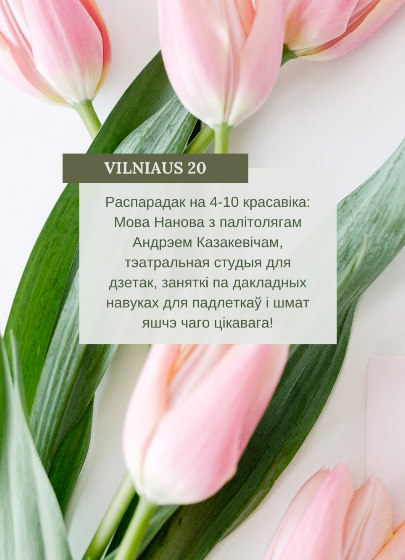
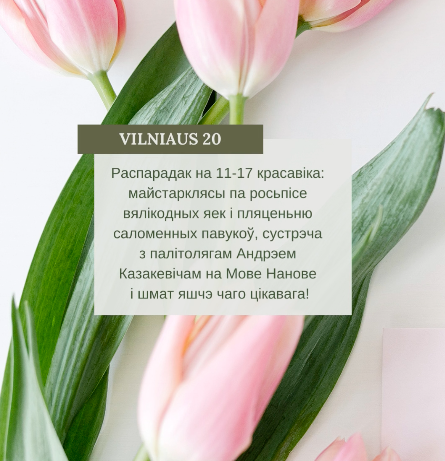
afi

diff --git a/content/be/Навіны/afisha0411.md b/content/be/Навіны/afisha0411.md
@@ -1,0 +1,92 @@
+
+---
+date: 2022-04-04T10:06:11+03:00
+description: ""
+featured_image: "https://vilnia.com/images/0411.png"
+tags: ["імпрэзы"]
+title: "Афіша на 11 - 17 красавіка"
+omit_header_text: true
+---
+{{< figure src="https://vilnia.com/images/0411.png" title="Запрашаем на імпрэзы гэтага тыдню! Майстарклясы па росьпісе вялікодных яек і пляценьню саломенных павукоў, сустрэча з палітолягам Андрэем Казакевічам на Мове Нанове і шмат яшчэ чаго цікавага!" >}}
+
+
+📌11-га красавіка, панядзелак:
+
+з 17:00 да 18:30 — літоўская мова (прафесійны курс, праз данаты).
+
+📌12-га красавіка, аўторак:
+
+з 07:00 да 08:00 —ангельская мова (он-лайн);
+
+з 18:00 да 20:00 — курс "Акадэмічны малюнак" (праз данаты);
+
+з 19:30 да 21:00 — літоўская мова (з валанцёрам);
+
+з 19:40 да 21:40 — групавая псіхалагічная кансультацыяі (RAZAM).
+
+📌13-га красавіка, серада:
+
+з 17:00 да 20:00 — літоўская мова (прафесійны курс, праз данаты));
+
+з 17:30 да 19:00 — курс "Акадэмічны малюнак" (праз данаты);
+
+з 19:15 да 21:15 — гурток традыцыйных беларускіх спеваў “Беларускі цуд”.
+
+📌14-га красавіка, чацьвер:
+
+з 07:00 да 08:00 — ангельская мова (он-лайн);
+
+з 18:00 да 20:00 — беларуская мова "Мова НАНОВА".
+
+з 18:30 да 20:00 — ёга (Vilniaus gatvė, 16);
+
+з 19:00 да 20:00 — Творчая студыя: тэатральна-харэаграфічныя заняткі для дзетак;
+
+з 19:30 да 21:00 — літоўская мова (з валанцёрам);
+
+📌15-га красавіка, пятніца:
+
+з 19:00 да 21:00 — Майстар-клас па росьпісе вялікодных яек
+
+з 19:00 да 21:00 — настольныя гульні.
+
+📌16-га красавіка, субота:
+
+з 10:00 да 12:00 — беларуская школка для дзетак;
+
+з 10:40 да 13:30 — Бацькоўская школка;
+
+з 10:40 да 11:40 — Творчая студыя: тэатральна-харэаграфічныя заняткі для дзетак (малодшая група);
+
+з 11:40 да 12:40 — Творчая студыя: тэатральна-харэаграфічныя заняткі для дзетак (старэйшая група);
+
+з 12:00 да 13:00 — Дакладныя навукі для падлеткаў: заняткі па хіміі, біялёгіі ды фізыцы;
+
+з 13:00 да 15:00 —  Майстар-клас па вырабе саламяннага павука
+
+з 12:00 да 13:30 — літоўская мова для дзетак (прафесійны курс, праз данаты));
+
+з 13:30 да 15:00 — літоўская мова (прафесійны курс, праз данаты));
+
+з 15:00 да 17:00 — гурток традыцыйных беларускіх спеваў “Беларускі цуд”;
+
+з 16:00 да 17:30 — цыгун/адзінаборствы (P. Lukšio, 16/ Kalvarijų gatvė, 125);
+
+з 17:00 да 19:00 — клуб традыцыйнага танца "Ойра" (Vilniaus, 16).
+
+📌17-га красавіка, нядзеля:
+
+з 10:00 да 12:00 — “Выдавецтва”: гурток для падлеткаў па графічнаму дызайну й выдавецкай справе;
+
+з 12:00 да 13:30 — інтэнсіў па мультыплікацыі 2D "Мульцікі" (1-я група);
+
+з 12:45 да 14:15 — ёга (P. Lukšio, 16/ Kalvarijų gatvė, 125);
+
+з 13:30 да 15:00 — інтэнсіў па мультыплікацыі 2D "Мульцікі" (2-я група).
+
+📍Панядзелак - пятніца 12:00 -19:00
+
+Інфармацыйна-кансультацыйны цэнтар па міграцыйным, юрыдычным, сацыяльным і бытавым пытанням.
+
+⏰ Расклад на працягу тыдня можа ўдакладняцца.
+
